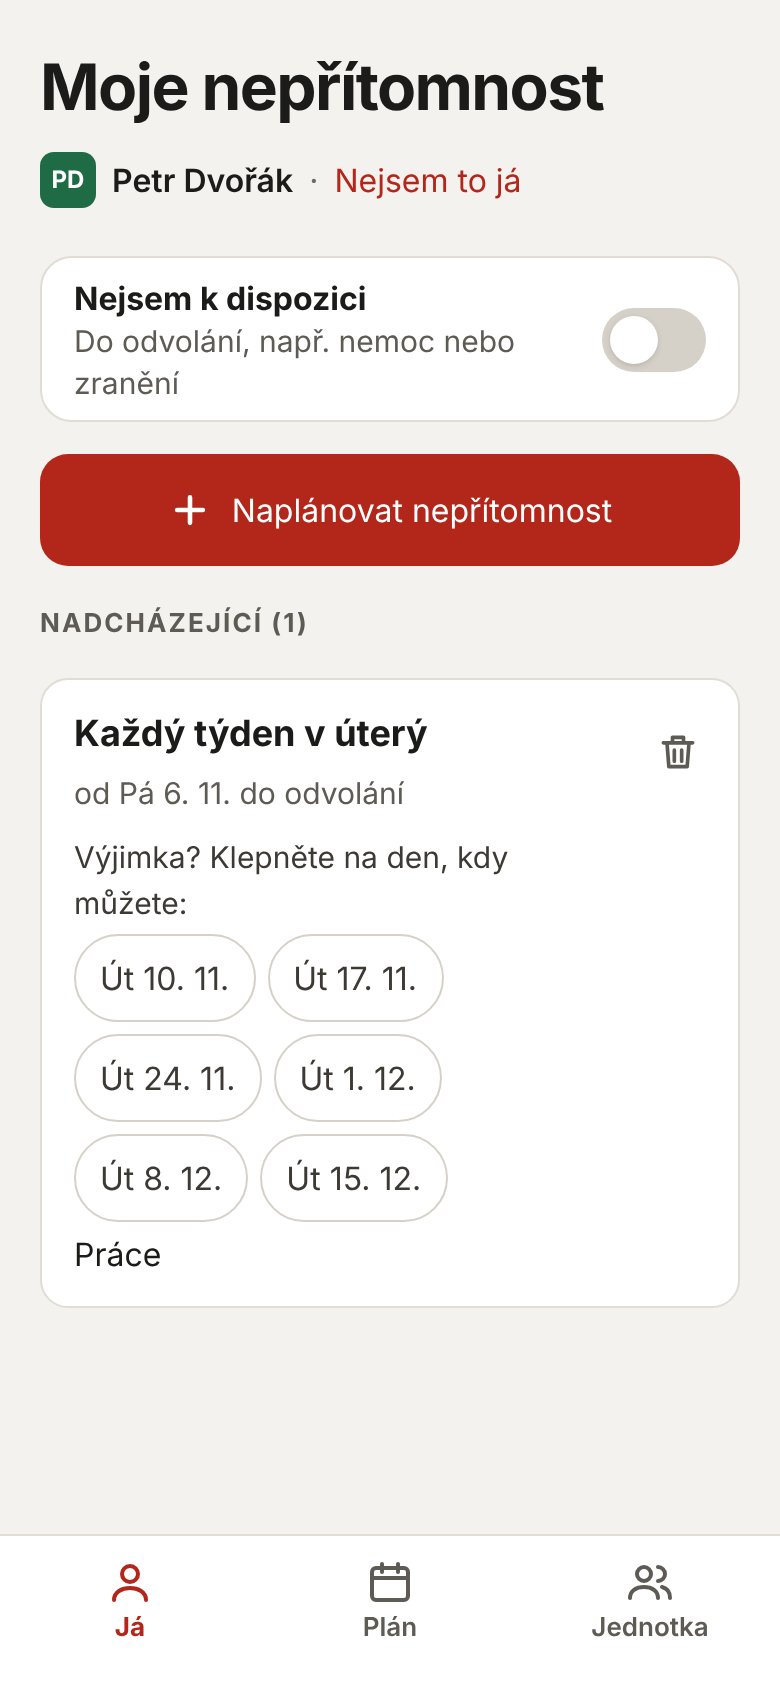
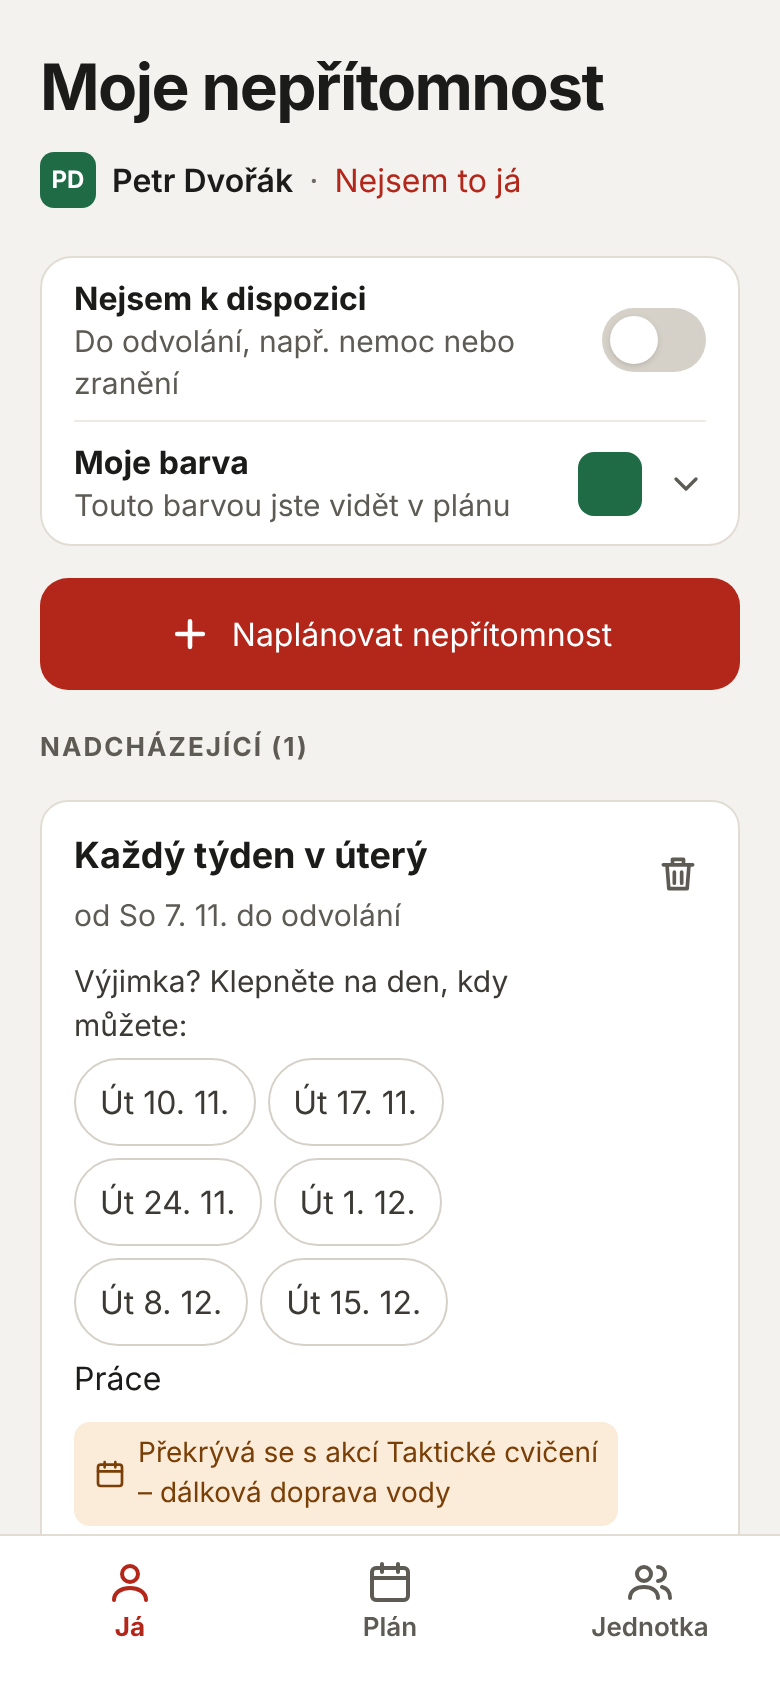
Let members pick their own colour on Já
The colour picker from the Jednotka member editor is now a shared
ColorPicker component, also shown under "Moje barva" on /ja (a collapsed
row below the "Nejsem k dispozici" switch). Squares are 44px tap targets.

Claude-Session: https://claude.ai/code/session_01Tw2HyLRkE8XcMbRUDzxFbL

diff --git a/src/routes/jednotka/+page.svelte b/src/routes/jednotka/+page.svelte
@@ -2,11 +2,12 @@
 	import { version } from '$app/env';
 	import { perfReport } from '#lib/perf.js';
 	import { access } from '#lib/access.svelte.js';
-	import { initials, PALETTE } from '#lib/colors.js';
+	import { initials } from '#lib/colors.js';
 	import { absenceWhen, data, groupAbsences, isSwitch, type Member } from '#lib/data.svelte.js';
 	import { formatShort, todayKey } from '#lib/dates.js';
 	import { everyLabel } from '#lib/repeat.js';
 	import { toasts } from '#lib/toast.svelte.js';
+	import ColorPicker from '#lib/components/ColorPicker.svelte';
 	import Icon from '#lib/components/Icon.svelte';
 	import UnavailableSwitch from '#lib/components/UnavailableSwitch.svelte';
 
@@ -198,8 +199,6 @@
 		const name = editName.trim();
 		if (name && name !== m.name) await data.updateMember(m.id, { name }).catch(() => toasts.error());
 	}
-
-	const isCustom = (color: string) => !PALETTE.includes(color.toUpperCase());
 
 	async function setColor(m: Member, color: string) {
 		await data.updateMember(m.id, { color }).catch(() => toasts.error());
@@ -556,39 +555,7 @@
 							</label>
 							<div class="flex flex-col gap-1.5">
 								<span class="text-[0.9375rem] font-semibold text-ink-2">Barva</span>
-								<div class="flex flex-wrap gap-1.5">
-									{#each PALETTE as c (c)}
-										<button
-											type="button"
-											aria-label="Barva {c}"
-											aria-pressed={m.color.toUpperCase() === c}
-											class="flex size-10 items-center justify-center rounded-lg text-white"
-											style="background: {c}"
-											onclick={() => setColor(m, c)}
-										>
-											{#if m.color.toUpperCase() === c}<Icon name="check" size={18} stroke={3} />{/if}
-										</button>
-									{/each}
-									<label
-										class="relative flex size-10 cursor-pointer items-center justify-center rounded-lg text-white has-[:focus-visible]:outline-2 has-[:focus-visible]:outline-offset-2 has-[:focus-visible]:outline-ink"
-										style="background: {isCustom(m.color)
-											? m.color
-											: 'conic-gradient(#d33, #e90, #dc3, #3a4, #29c, #63c, #c3a, #d33)'}"
-									>
-										{#if isCustom(m.color)}<Icon name="check" size={18} stroke={3} />{:else}<Icon
-												name="plus"
-												size={18}
-												stroke={3}
-											/>{/if}
-										<input
-											type="color"
-											aria-label="Vlastní barva"
-											value={m.color}
-											class="absolute inset-0 size-full cursor-pointer opacity-0"
-											onchange={(e) => setColor(m, e.currentTarget.value.toUpperCase())}
-										/>
-									</label>
-								</div>
+								<ColorPicker value={m.color} onpick={(c) => setColor(m, c)} />
 							</div>
 							<UnavailableSwitch member={m} self={m.id === access.memberId} />
 							<div class="flex items-center justify-between">

diff --git a/src/routes/ja/+page.svelte b/src/routes/ja/+page.svelte
@@ -22,6 +22,7 @@
 	} from '#lib/dates.js';
 	import { toasts } from '#lib/toast.svelte.js';
 	import { describe, isEmpty, type Repeat } from '#lib/repeat.js';
+	import ColorPicker from '#lib/components/ColorPicker.svelte';
 	import Icon from '#lib/components/Icon.svelte';
 	import RepeatPicker from '#lib/components/RepeatPicker.svelte';
 	import UnavailableSwitch from '#lib/components/UnavailableSwitch.svelte';
@@ -41,6 +42,11 @@
 
 	let showForm = $state(false);
 	let showPast = $state(false);
+	let showColors = $state(false);
+
+	async function setColor(color: string) {
+		if (me) await data.updateMember(me.id, { color }).catch(() => toasts.error());
+	}
 
 	// --- form ---
 	type Quick = 'today' | 'tomorrow' | 'weekend' | 'custom';
@@ -144,8 +150,26 @@
 	</header>
 
 	{#if me}
-		<div class="rounded-2xl border border-line bg-surface px-4 py-2">
+		<div class="flex flex-col rounded-2xl border border-line bg-surface px-4 py-2">
 			<UnavailableSwitch member={me} self />
+			<button
+				type="button"
+				aria-expanded={showColors}
+				class="mt-2 flex min-h-11 w-full items-center gap-3 border-t border-line-soft pt-2 text-left"
+				onclick={() => (showColors = !showColors)}
+			>
+				<span class="flex min-w-0 flex-1 flex-col">
+					<span class="font-bold">Moje barva</span>
+					<span class="text-[0.9375rem] leading-snug text-muted">Touto barvou jste vidět v plánu</span>
+				</span>
+				<span aria-hidden="true" class="size-8 shrink-0 rounded-lg" style="background: {me.color}"></span>
+				<Icon name={showColors ? 'chevronUp' : 'chevronDown'} class="shrink-0 text-muted" />
+			</button>
+			{#if showColors}
+				<div class="pt-1 pb-2">
+					<ColorPicker value={me.color} onpick={setColor} />
+				</div>
+			{/if}
 		</div>
 	{/if}
 

diff --git a/src/lib/components/ColorPicker.svelte b/src/lib/components/ColorPicker.svelte
@@ -1,0 +1,38 @@
+<script lang="ts">
+	import { PALETTE } from '#lib/colors.js';
+	import Icon from '#lib/components/Icon.svelte';
+
+	/** The palette plus a last square for any custom colour (stored as uppercase #RRGGBB). */
+	let { value, onpick }: { value: string; onpick: (color: string) => void } = $props();
+
+	const current = $derived(value.toUpperCase());
+	const custom = $derived(!PALETTE.includes(current));
+</script>
+
+<div class="flex flex-wrap gap-1.5">
+	{#each PALETTE as c (c)}
+		<button
+			type="button"
+			aria-label="Barva {c}"
+			aria-pressed={current === c}
+			class="flex size-11 items-center justify-center rounded-lg text-white"
+			style="background: {c}"
+			onclick={() => onpick(c)}
+		>
+			{#if current === c}<Icon name="check" size={18} stroke={3} />{/if}
+		</button>
+	{/each}
+	<label
+		class="relative flex size-11 cursor-pointer items-center justify-center rounded-lg text-white has-[:focus-visible]:outline-2 has-[:focus-visible]:outline-offset-2 has-[:focus-visible]:outline-ink"
+		style="background: {custom ? value : 'conic-gradient(#d33, #e90, #dc3, #3a4, #29c, #63c, #c3a, #d33)'}"
+	>
+		{#if custom}<Icon name="check" size={18} stroke={3} />{:else}<Icon name="plus" size={18} stroke={3} />{/if}
+		<input
+			type="color"
+			aria-label="Vlastní barva"
+			{value}
+			class="absolute inset-0 size-full cursor-pointer opacity-0"
+			onchange={(e) => onpick(e.currentTarget.value.toUpperCase())}
+		/>
+	</label>
+</div>

diff --git a/HANDOVER.md b/HANDOVER.md
@@ -80,6 +80,9 @@ direction; older rows are superseded.
   - The last square in the colour row is an `<input type="color">` for any
     custom colour (stored as uppercase `#RRGGBB`). Custom colours aren't
     checked for contrast with the white text.
+  - The picker (`components/ColorPicker.svelte`) is in the member editor on
+    `/jednotka` and, for yourself, under "Moje barva" on `/ja` (collapsed row
+    below the "Nejsem k dispozici" switch).
 - **Archiving:** archived members disappear from the plan and the pickers,
   and their absences are kept. Permanent delete exists only from the archive
   and also deletes their absences.
@@ -159,6 +162,7 @@ src/
       EventForm.svelte       Create/edit event
       RepeatPicker.svelte    "Opakování" radios + custom rule editor (like Apple's "Custom")
       PlaceInput.svelte      Free-text place with a suggestion list of saved places (data.places)
+      ColorPicker.svelte     Member colour: palette squares + custom <input type="color">
       MemberPicker.svelte    "Kdo jste?" screen (adds the first member on an empty unit)
       PasswordScreen.svelte  First-run setup / unlock
       Brand.svelte, Icon.svelte

diff --git a/README.md b/README.md
@@ -82,7 +82,8 @@ a každý může klepnout na „Nemůžu přijít“.
 (dovolená), nebo pravidelně (např. „každé úterý – práce“). Přepínač „Nejsem
 k dispozici“ platí do odvolání, třeba při nemoci nebo zranění. Kdo ho má zapnutý,
 nepočítá se do počtu v plánu ani u akcí (je jen uvedený jako „Dlouhodobě mimo“). Pro
-jednotlivé dny jde udělat výjimku.
+jednotlivé dny jde udělat výjimku. Pod přepínačem si v **Moje barva** každý vybere
+barvu, kterou je vidět v plánu.
 
 **Jednotka.** Název jednotky, odkaz pro členy, heslo, odhlášení ostatních zařízení,
 seznam členů (přidat, přejmenovat, přezdívka, změnit barvu, archivovat), přehled
